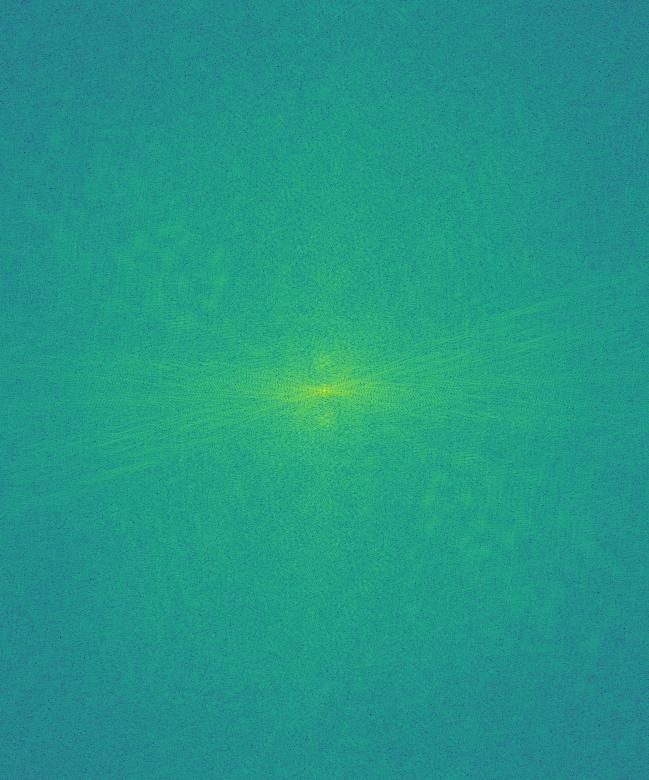
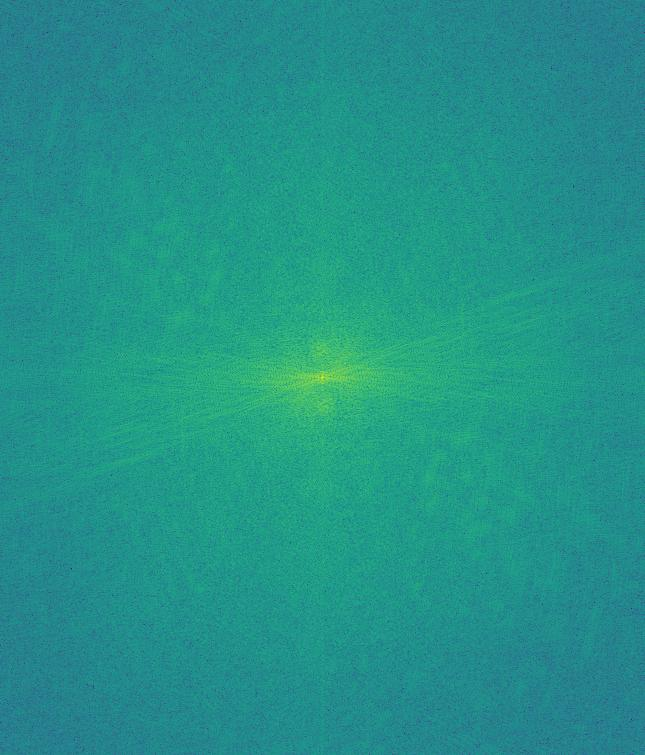
update proj2 section 2.2

Changed region(s): [[0.4961, 0.4874, 0.5891, 0.5179]]

diff --git a/_site/cs180-portfolio/proj2/index.html b/_site/cs180-portfolio/proj2/index.html
@@ -567,11 +567,53 @@
 
 
 
+                    <p>&nbsp;&nbsp;</p>
 
+                    <h4><strong>Fav Set: Elonaltman Frequency Analysis</strong></h4>
 
+                    <section id="image-array-condense">
+                        <div class="image-card-condense">
+                            <img src="src/2.2/elonaltman/elon_freq.jpg" alt="elon_freq">
+                            <div class="image-condense-info">
+                                <p>Elon Original Frequency</p>
+                            </div>
+                        </div>
 
+                        <div class="image-card-condense">
+                            <img src="src/2.2/elonaltman/elon_high_freq.jpg" alt="elon_high_freq">
+                            <div class="image-condense-info">
+                                <p>Elon High Frequency</p>
+                            </div>
+                        </div>
+
+                        <div class="image-card-condense">
+                            <img src="src/2.2/elonaltman/altman_freq.jpg" alt="altman_freq">
+                            <div class="image-condense-info">
+                                <p>Altman Original Frequency</p>
+                            </div>
+                        </div>
+                        
+                        <div class="image-card-condense">
+                            <img src="src/2.2/elonaltman/altman_low_freq.jpg" alt="altman_low_freq">
+                            <div class="image-condense-info">
+                                <p>Altman Low Frequency</p>
+                            </div>
+                        </div>
+
+                        <div class="image-card-condense">
+                            <img src="src/2.2/elonaltman/elon_altman_freq.jpg" alt="elon_altman_freq">
+                            <div class="image-condense-info">
+                                <p>Elon_Altman Frequency</p>
+                            </div>
+                        </div>
                     
+                    </section>
+
                 </section>
+
+                <p>&nbsp;&nbsp;</p>
+                <hr class="custom-line">
+
 
 
                 <section id="section2.3" class="section">

diff --git a/cs180-portfolio/proj2/index.html b/cs180-portfolio/proj2/index.html
@@ -567,11 +567,53 @@
 
 
 
+                    <p>&nbsp;&nbsp;</p>
 
+                    <h4><strong>Fav Set: Elonaltman Frequency Analysis</strong></h4>
 
+                    <section id="image-array-condense">
+                        <div class="image-card-condense">
+                            <img src="src/2.2/elonaltman/elon_freq.jpg" alt="elon_freq">
+                            <div class="image-condense-info">
+                                <p>Elon Original Frequency</p>
+                            </div>
+                        </div>
 
+                        <div class="image-card-condense">
+                            <img src="src/2.2/elonaltman/elon_high_freq.jpg" alt="elon_high_freq">
+                            <div class="image-condense-info">
+                                <p>Elon High Frequency</p>
+                            </div>
+                        </div>
+
+                        <div class="image-card-condense">
+                            <img src="src/2.2/elonaltman/altman_freq.jpg" alt="altman_freq">
+                            <div class="image-condense-info">
+                                <p>Altman Original Frequency</p>
+                            </div>
+                        </div>
+                        
+                        <div class="image-card-condense">
+                            <img src="src/2.2/elonaltman/altman_low_freq.jpg" alt="altman_low_freq">
+                            <div class="image-condense-info">
+                                <p>Altman Low Frequency</p>
+                            </div>
+                        </div>
+
+                        <div class="image-card-condense">
+                            <img src="src/2.2/elonaltman/elon_altman_freq.jpg" alt="elon_altman_freq">
+                            <div class="image-condense-info">
+                                <p>Elon_Altman Frequency</p>
+                            </div>
+                        </div>
                     
+                    </section>
+
                 </section>
+
+                <p>&nbsp;&nbsp;</p>
+                <hr class="custom-line">
+
 
 
                 <section id="section2.3" class="section">
